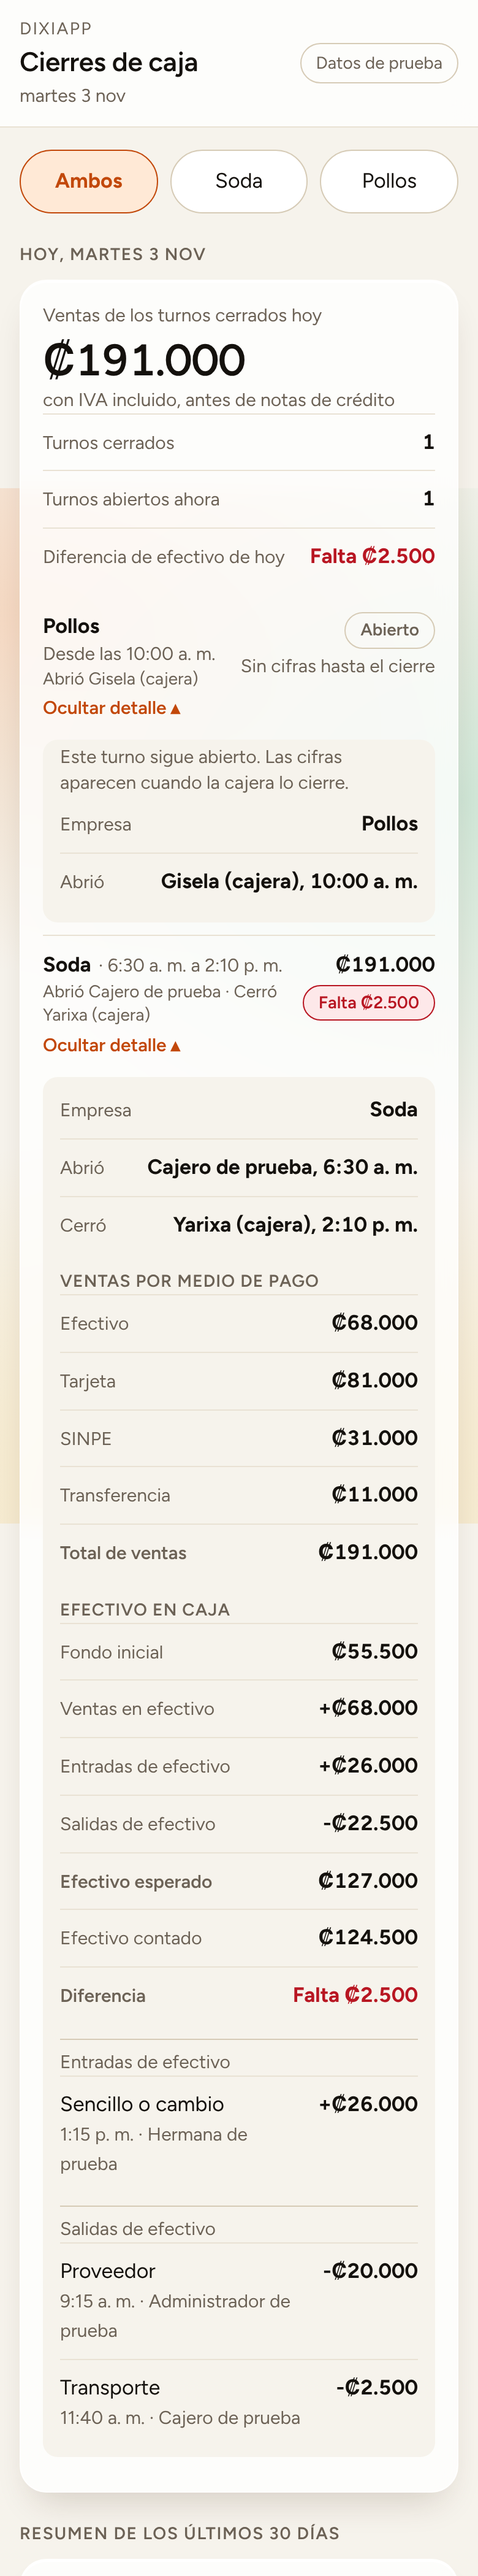
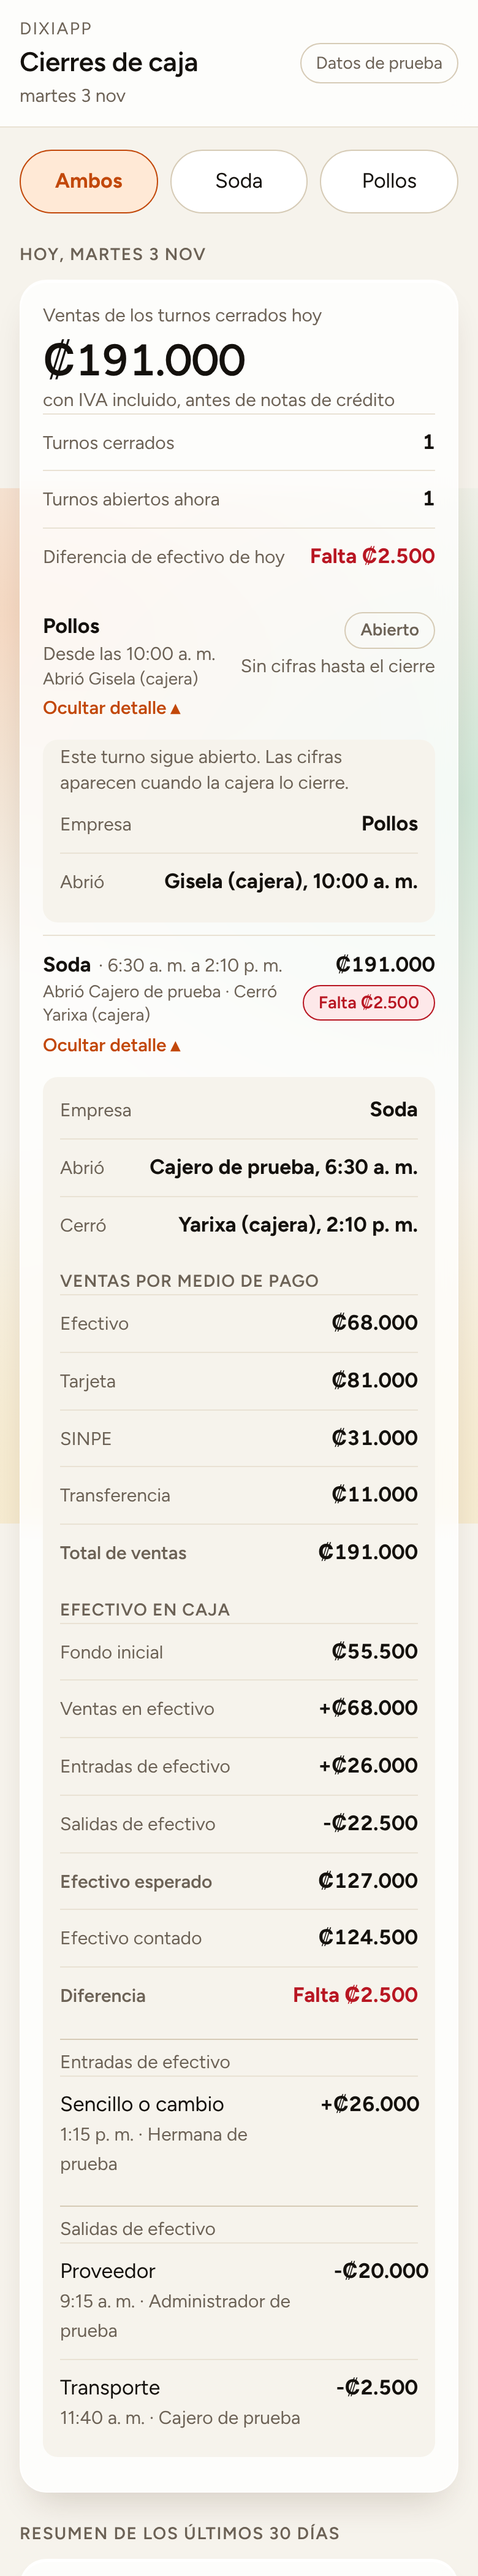
Cierres: el detalle ya no se corta en el celular (v23)
Claude-Session: https://claude.ai/code/session_011LYsWAhbE7D1p4ByhmTELK

diff --git a/web/src/vistas-cierres.js b/web/src/vistas-cierres.js
@@ -21,13 +21,13 @@ function movimientos(titulo, lista, signo) {
 function detalle(t, nombre, hoy) {
   const otroDia = t.abiertoDia !== t.dia;
   if (t.estado !== 'cerrado') return `<div class="tn-detalle"><p class="etq" style="margin:0">Este turno sigue abierto. Las cifras aparecen cuando la cajera lo cierre.</p>
-    ${filaDetalle('Empresa', esc(nombre))}${filaDetalle('Abrió', `${esc(t.abiertoPor)}, ${otroDia ? esc(fechaLarga(t.abiertoDia)) + ' ' : ''}${horaLegible(t.abiertoHora)}`)}</div>`;
+    ${filaDetalle('Empresa', esc(nombre), 'texto')}${filaDetalle('Abrió', `${esc(t.abiertoPor)}, ${otroDia ? esc(fechaLarga(t.abiertoDia)) + ' ' : ''}${horaLegible(t.abiertoHora)}`, 'texto')}</div>`;
   const ajuste = Math.round((t.ventasNetas - t.totalVentas) * 100) / 100;
   const medios = MEDIOS.filter(([k]) => k !== 'otros' || t.ventas.otros).map(([k, n]) => filaDetalle(n, colones(t.ventas[k])));
   return `<div class="tn-detalle">
-    ${filaDetalle('Empresa', esc(nombre))}
-    ${filaDetalle('Abrió', `${esc(t.abiertoPor)}, ${otroDia ? esc(fechaLarga(t.abiertoDia)) + ' ' : ''}${horaLegible(t.abiertoHora)}`)}
-    ${filaDetalle('Cerró', `${esc(t.cerradoPor)}, ${horaLegible(t.cerradoHora)}`)}
+    ${filaDetalle('Empresa', esc(nombre), 'texto')}
+    ${filaDetalle('Abrió', `${esc(t.abiertoPor)}, ${otroDia ? esc(fechaLarga(t.abiertoDia)) + ' ' : ''}${horaLegible(t.abiertoHora)}`, 'texto')}
+    ${filaDetalle('Cerró', `${esc(t.cerradoPor)}, ${horaLegible(t.cerradoHora)}`, 'texto')}
     <h4 class="tn-sub">Ventas por medio de pago</h4>
     ${medios.join('')}
     ${filaDetalle('Total de ventas', colones(t.totalVentas), 'total')}

diff --git a/web/estilos.css b/web/estilos.css
@@ -382,4 +382,9 @@ body { background:
 .tn-sub { margin: 14px 0 0; font-size: 14px; font-weight: 600; letter-spacing: .04em; text-transform: uppercase; color: var(--suave); }
 .tn-movs { margin-top: 12px; border-top: 1px solid var(--linea-fuerte); padding-top: 8px; }
 .tn-dia .cierre-cab h3 { text-transform: capitalize; }
-.tn-movs .fila b, .tn-detalle .fila b { white-space: nowrap; }
+.tn-movs .fila b.num, .tn-detalle .fila b.num { white-space: nowrap; }
+.tn-detalle .fila b, .tn-movs .fila b { min-width: 0; overflow-wrap: anywhere; text-align: right; }
+.tn-detalle .fila .etq { flex: 0 1 auto; min-width: 0; }
+.tn .tn-detalle, .tn-lista > li { min-width: 0; max-width: 100%; }
+
+.tn-detalle .fila.texto b.num { white-space: normal; font-variant-numeric: normal; }

diff --git a/web/sw.js b/web/sw.js
@@ -1,6 +1,6 @@
 // Service worker de Dixiapp: cachea SOLO la interfaz (archivos estaticos de esta lista).
 // Nunca guarda datos de caja: cualquier otra peticion (por ejemplo Supabase) va directo a la red.
-const VERSION = 'dixiapp-interfaz-v22';
+const VERSION = 'dixiapp-interfaz-v23';
 const INTERFAZ = [
   './', './index.html', './estilos.css', './manifest.webmanifest',
   './src/app.js', './src/vistas.js', './src/vistas-compras.js', './src/vistas-ventas.js', './src/vistas-cierres.js', './src/vistas-inicio.js', './src/mensajes.js', './src/vistas-bodega.js', './src/bodega.js', './src/ui.js', './vendor/supabase-js.js',
